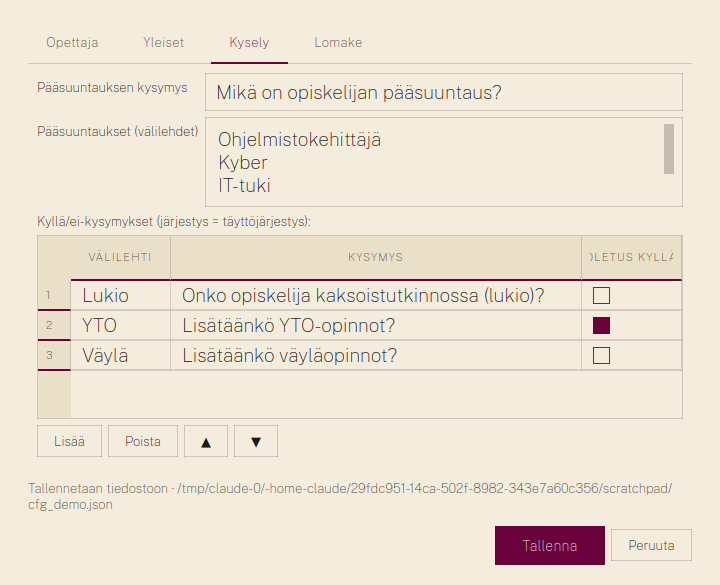
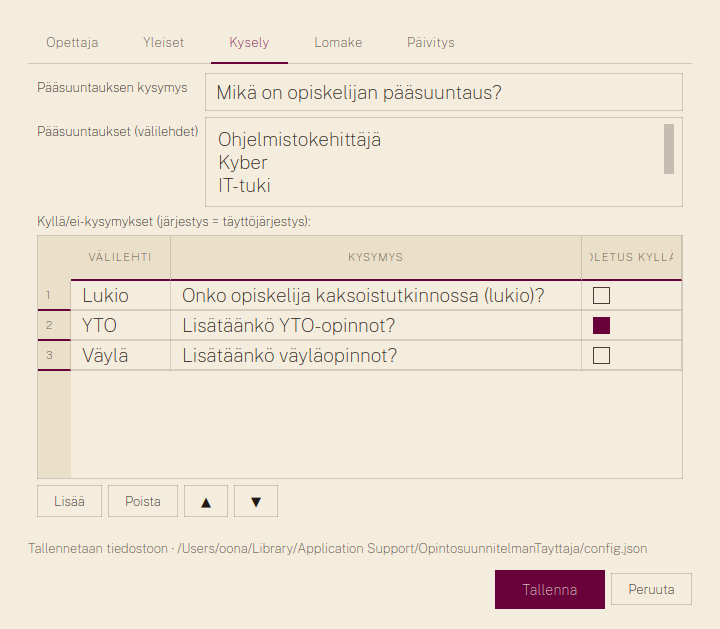
README-kuvat uusittu versiolle 2.4.0 (pääikkuna, esikatselu, täyttö, asetukset)
Kaikki kuvat feikkidatalla (Oona Opettaja, Esimerkki.xlsx); asetuskuvissa Päivitys-välilehti.
README: kohdan 3 väliotsikot mainittu.

Claude-Session: https://claude.ai/code/session_01QHmz1w8qGbjK2b4PK6UBx7

diff --git a/README.md b/README.md
@@ -130,7 +130,8 @@ Ikkuna kulkee viidessä vaiheessa:
 2. **Avaa opiskelijan opintokortti.** Siirry Chrome-ikkunassa Wilmaan, avaa opiskelijan
    opintokortti ja siitä Opintosuunnitelma-lomake muokkaustilassa. Jätä välilehti auki.
 3. **Valitse opinnot.** Rivit tulevat esikatseluun kahdesta lähteestä, ja molempia voi käyttää
-   yhtä aikaa. **Wilma:** *Hae nykyiset rivit Wilmasta* lukee kohdassa 2 avatun lomakkeen rivit
+   yhtä aikaa; kohta on jaettu väliotsikoihin *A · Nykyinen suunnitelma Wilmasta*, *B · Pohja
+   Excelistä* ja *C · Muut valinnat*. **Wilma:** *Hae nykyiset rivit Wilmasta* lukee kohdassa 2 avatun lomakkeen rivit
    esikatseluun lähteenä *Wilma*. Haku vaihtaa pääsuuntauksen vaihtoehtoon *Ei pääsuuntausta
    Excelistä*; suuntauksen voi valita takaisin, jos Excelin rivit halutaan mukaan. *Poista*
    tyhjentää Wilman rivit esikatselusta. **Excel:** valitse lähde-Excel (muistetaan; *Avaa
